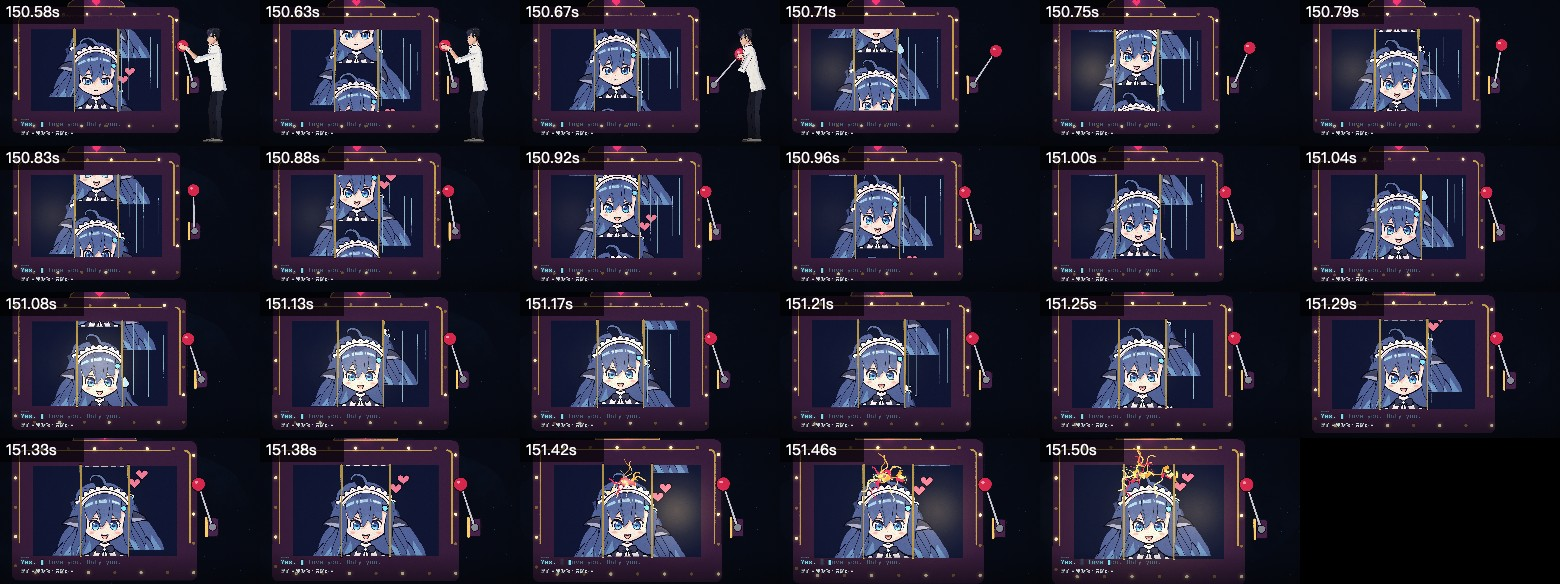
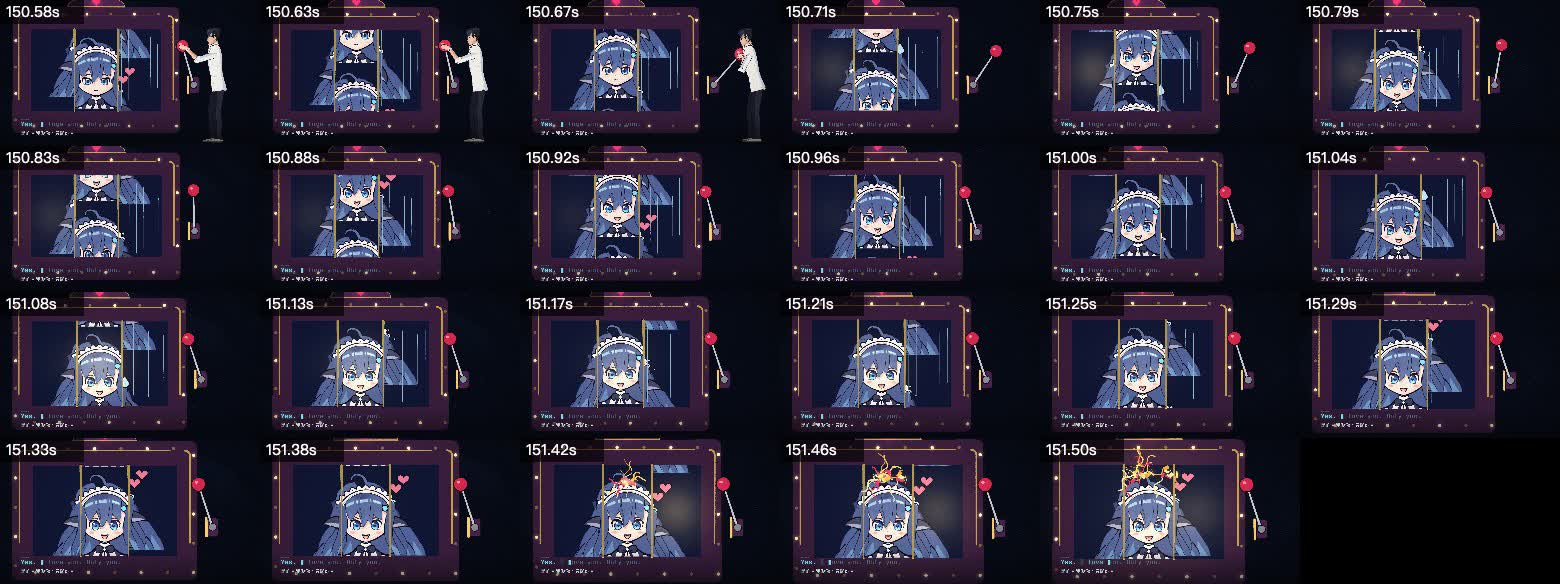
[review] G5 fix #1: 09B/09C expressions, 09H amber rim, palm, 09E lever

diff --git a/film/src/scenes/s09_bridge.js b/film/src/scenes/s09_bridge.js
@@ -85,14 +85,14 @@
   function s09Her(S, t) {
     const { n, tt, rw } = herClock(t);
     const id = n === 1 ? 'B_AI1' : n === 2 ? 'B_AI2' : 'B_AI3', T0 = n === 1 ? T_B : n === 2 ? T_C : T_D;
-    const keys = n === 1 ? [[T_B - 1, 'sad']] : n === 2 ? [[T_C - .5, 'worried']] : [[T_D - .4, 'worried'], [T_D, 'eager']];
+    const keys = n === 1 ? [[T_B - 1, 'sad', { brow: 1.2, lookY: .6 }]] : n === 2 ? [[T_C - .5, 'worried', { eyes: 'sad', brow: 1.4, lid: .1, lookY: .3 }]] : [[T_D - .4, 'worried'], [T_D, 'eager']];
     const f = aiEmotions(tt, keys, { take: .8 });
     const v = s09Vis(tt, id), spk = lyricById(id), talking = spk && tt >= spk.start - .02 && tt <= spk.end + .12;
     let act = {};
     const gl = n === 2 ? ease(seg(tt, T_C + 1.2, T_C + 1.55)) : 0;                         // she glances to the right (the door, the real people)
     if (gl > 0) act = { lookX: 1.1 * gl, yaw: .28 * gl, tilt: .08 * gl };
     const o = { ...f, ...act, form: 'full', pose: 'bust', view: 'front', pal: 'glow', cut: 1.9, t: tt, seed: 3, clip: [GR[0] + 2, GR[1] + 2, GR[2] - 2, GR[3] - 2], blink: undefined, boilKey: 's09 her' + n };
-    if (talking) o.mouth = v ? v.m : (n === 1 ? 'frown' : n === 2 ? 'wobble' : 'open');
+    if (talking) o.mouth = n === 1 ? (v ? (v.s.start * 7 % 2 < 1 ? 'O' : 'U') : 'frown') : n === 2 ? 'wobble' : (v ? v.m : 'open');   // honest and sad: small, pulled-down mouths; worried: trembling
     ai(GX + 10, HER_NY, HER_U, o);
     if (gl > .02) {                                                                    // a painted chevron points the way: right
       const ax = S.X(.8) + 12 * Math.sin(t * 6), ay = S.Y(.42); boilSeed('s09 arrow');
@@ -155,34 +155,32 @@
   // spin (her face cut into three vertical strips); he yanks the lever twelve times, on the lever events, faster and faster.
   // reads: 149.30-149.90 lever and reels, one big move · 149.90-150.70 it gets frantic
   // =============================================================================================================
-  const SL = [GX, GY, GW, GH], LV = [1560, 610, 1.0], HIM_E = { x: 1850, y: 1034, u: 27 };
+  const SL = [GX, GY, GW, GH], LV = [1500, 640, 1.2], HIM_E = { x: 1935, y: 1034, u: 27 };
   const reelWin = { x: GX - GW / 2, y: GY - GH / 2, w: GW, h: GH };
   const yankAt = t => {                                                              // 0 up .. .87 pulled: down at each lever event, back up between
-    const D = .87;
+    const D = .95;
     if (t < LEVER[0] - .08) return .05;
     let i = 0; while (i + 1 < LEVER.length && t >= LEVER[i + 1]) i++;
     if (i === LEVER.length - 1 && t >= LEVER[i]) return lerp(D, .05, kitEase.sine(seg(t, LEVER[i] + .05, LEVER[i] + .45)));
     const e = LEVER[i], nx = LEVER[i + 1] ?? e + .3, g = Math.max(.05, nx - e);
-    if (t < e) return lerp(.1, D, kitEase.in2(seg(t, e - .08, e)));
-    return t < e + g * .5 ? lerp(D, .1, kitEase.sine(seg(t, e, e + g * .5))) : lerp(.1, D, kitEase.in2(seg(t, e + g * .5, nx)));
+    if (t < e) return lerp(.02, D, kitEase.in2(seg(t, e - .08, e)));
+    return t < e + g * .5 ? lerp(D, .02, kitEase.sine(seg(t, e, e + g * .5))) : lerp(.02, D, kitEase.in2(seg(t, e + g * .5, nx)));
   };
   function s09Slot(t, lt, o = {}) {
     const k = clamp(.35 + .65 * kitEase.out2(seg(t, T_E, T_E + .25))), win = ease(seg(t, STOPS[2], STOPS[2] + .3));
     setSlot(SL[0], SL[1], SL[2], SL[3], { k, t, cache: k >= 1, res: 1.5, win, reels: [{}, {}, {}] });
-    const T_SAVE = T; if (t < STOPS[2] + .25) T = 0;                                    // the cached faces must not depend on the frame that first paints them (their heart eyes pulse with the global T)
     aiReels(t, { ...reelWin, u: GH / 2.6, faces: ['sad', 'worried', 'eager', 'heart'], final: 'heart', spin: [T_E - .15, T_E + .6], stops: STOPS, key: 's09', pal: 'glow',
       over: { mouth: (s09Vis(t, 'B_YES') || {}).m || (t < 152.9 ? 'smile' : 'open'), tilt: .04 * Math.sin(t * 3) } });
-    T = T_SAVE;
   }
   function s09e(t, lt, dur) {
     const zk = kitEase.inOut3(seg(lt, 0, .9)), z = lerp(1.04, 1.0, zk);
     if (k0(t)) setConfVoid();
-    kitCam(lt, [[0, lerp(1000, 1090, zk), lerp(GY + 20, 520, zk), z]], { shake: 2.2 * kitEase.out2(seg(t, T_E + .5, T_F)) });
+    kitCam(lt, [[0, lerp(1050, 1150, zk), lerp(GY + 20, 520, zk), z]], { shake: 2.2 * kitEase.out2(seg(t, T_E + .5, T_F)) });
     s09Slot(t, lt);
-    const pull = yankAt(t), a = lerp(-.32, 1.25, easeIn(pull)), L = 300 * LV[2];
+    const pull = yankAt(t), a = lerp(-.32, 1.25, easeIn(pull)), L = 300 * LV[2];   // (setLever's own arc)
     const kx = LV[0] + Math.sin(a) * L, ky = LV[1] - Math.cos(a) * L;
     setLever(LV[0], LV[1], LV[2], { pull, grow: kitEase.out2(seg(t, T_E - .05, T_E + .22)) });
-    const f = himEmotions(t, [[T_E - .3, 'panic']], { take: .3 }), hx = HIM_E.x + (kx - 1700) * .5, fev = seg(t, 149.9, 150.7);
+    const f = himEmotions(t, [[T_E - .3, 'panic']], { take: .3 }), hx = HIM_E.x + (kx - 1800) * .5, fev = seg(t, 149.9, 150.7);
     him(hx, HIM_E.y, HIM_E.u, { ...f, mouth: 'gasp', pose: 'stand', view: 'side', flip: true, outfit: 'home', toR: [kx + 8, ky + 14], handR: 'fist', lean: .1 + .12 * pull + .04 * fev * Math.sin(t * 40), boilKey: 's09e him', seed: .5 });
     glow(kx, ky, 120, '#FF9AB0', .25 * pull);
     camEnd();
@@ -195,9 +193,9 @@
   // =============================================================================================================
   function s09f(t, lt, dur) {
     const zk = kitEase.sine(seg(t, T_F, T_G)), z = lerp(1.0, 1.25, zk), hit = STOPS.reduce((m, e) => m + kitEnv(t, e, .02, .12), 0);
-    kitCam(lt, [[0, lerp(1090, 900, zk), lerp(520, 480, zk), z]], { shake: 6 * Math.min(1, hit) });
+    kitCam(lt, [[0, lerp(1150, 900, zk), lerp(520, 480, zk), z]], { shake: 6 * Math.min(1, hit) });
     s09Slot(t, lt);
-    const pull = lerp(.87, .05, kitEase.sine(seg(t, T_F - .05, T_F + .4)));
+    const pull = lerp(.95, .05, kitEase.sine(seg(t, T_F - .05, T_F + .4)));
     setLever(LV[0], LV[1], LV[2], { pull, grow: 1 });
     STOPS.forEach((e, i) => { const k = kitEnv(t, e, .02, .14); if (k > .02) glow(GX + (i - 1) * GW / 3, GY, 380, GOLD, .55 * k); });         // a flash on each reel as it stops
     const age = t - STOPS[2]; if (age > 0) setConfetti(GX, 330, age, { n: 38, spread: 1000, up: 600, s: 1.7 });
@@ -261,10 +259,20 @@
           const rip = t >= T_RIPS ? { c: [0, -9.1], age: ((t - T_RIPS) % .698), amp: .05, wl: .9, speed: 2.6 } : undefined;
           if (amb > 0) glow(M[0], 440, 560, SET_C.amber, .5 * amb);
           const af = aiEmotions(t, [[157.9, 'perfect'], [161.2, 'gentle']], { take: 0 });
-          const palm = t >= T_PALM ? aiAct('glass', t, T_PALM, { at: [1.5, -7.2] }) : {};
+          const palm = t >= T_PALM ? aiAct('glass', t, T_PALM, { at: [1.7, -8.3] }) : {};
           glow(M[0], 450, 560, '#BFD8EE', .3 * (1 - dis * .8));
-          ai(M[0], 610, 168, { ...af, ...palm, form: 'full', pose: 'bust', view: 'front', pal: 'mirror', pal2: 'amber', palK: .5 * amb, cut: 1.6, t, tilt: TILT, blink: 0, dissolve: clamp(dis), dissolveTo: [M[0], 900],
-            mouth: sv, ripple: rip, clip: [S.x, S.y, S.x + S.w, S.y + S.h], boilKey: 's09h her', seed: 3 });
+          const base = { ...af, ...palm, handK: t >= T_PALM ? 1.7 : 1, form: 'full', pose: 'bust', view: 'front', pal: 'mirror', cut: 1.6, t, tilt: TILT, blink: 0, dissolve: clamp(dis), dissolveTo: [M[0], 900],
+            mouth: sv, ripple: rip, clip: [S.x, S.y, S.x + S.w, S.y + S.h], boilKey: 's09h her', seed: 3 };
+          const HY = 610, HU = 168;
+          // amber seeps in from her outline: an amber copy a little larger behind her, her mirror-silver self, an amber wash over all of her, then a slightly smaller
+          // silver self on top: only a rim 20-40 px deep stays amber
+          if (amb > .01) ai(M[0], HY - .98 * HU * .045, HU * 1.045, { ...base, silhouette: '#FFB070', silOp: 255 * amb, handK: 1, boilKey: 's09h herA' });
+          ai(M[0], HY, HU, base);
+          if (amb > .01) { ai(M[0], HY, HU, { ...base, silhouette: '#FFB070', silOp: 120 * amb, boilKey: 's09h herB' }); ai(M[0], HY - .98 * HU * .035, HU * .965, { ...base, boilKey: 's09h her' }); }
+          if (t >= T_PALM && AI_LAST.handR) {                                              // the palm presses flat on the glass: a flare and a ring where it lands, a streak of reflected light
+            const pk = ease(seg(t, T_PALM + .45, T_PALM + .95)), [hx, hy] = AI_LAST.handR;
+            if (pk > 0) { glow(hx, hy, 150 * pk, '#E8F4FF', .45 * pk); setRipple(hx, hy, 40 + 90 * pk, .8 * pk, { ry: .9, key: 'palm' }); boilSeed('s09h glint'); inkLine([[hx - 40, hy - 70], [hx + 30, hy + 20]], 3 * pk, '#FFFFFF', 'inkfine', 0); }
+          }
           mouthP = AI_LAST.mouth ? [...AI_LAST.mouth] : null;
         }
       } });

diff --git a/docs/tasks/mac_02_status.md b/docs/tasks/mac_02_status.md
@@ -6,7 +6,7 @@
 | G2 | S04+S05 | 待審（fix #2 已 push） | 穩定幀約 0.1 | – | `film/out/preview_G2.mp4` |
 | G3 | S06+S07 | 待審（fix #1 已 push） | 0.1–0.5（重畫 tile 幀到 1+） | – | `film/out/preview_G3.mp4`（已重出，0.13 s/幀牆鐘） |
 | G4 | S08 | 待審（fix #1 已 push） | 0.04–0.6 | – | `film/out/preview_G4.mp4`（已重出，0.09 s/幀牆鐘） |
-| G5 | S09 | 修改中（回饋 #1） | 0.07–0.2（拉霸 0.25–0.6） | – | `film/out/preview_G5.mp4` |
+| G5 | S09 | 待審（fix #1 已 push） | 0.07–0.2（09H +0.13；拉霸 0.25–0.6） | – | `film/out/preview_G5.mp4`（已重出） |
 | G6 | S10–S13 | 進行中 | – | – | `film/out/preview_G6.mp4` |
 
 ## 共用檔案請求（候選，等主 session 決定）
@@ -30,3 +30,4 @@
 - G5 弱點：她說「I can't love you」時嘴型偏開心；09A 屏息只有約 0.3 s；09E 他半個身體在畫面外、拉桿擺動小；09H 的琥珀是調色＋glow、不是真的邊緣滲入；09C 她沒有指向的手臂（bust 沒有手），改為視線＋箭頭。
 - 09 的 him bust 已把 `cut` 改成 9（lead），切口移出畫面。
 - G4 fix 備註：他的 bust 全改 `cut: 9`；巨大的她在 08A/08D/08E 以柔和漸層融進暗處；08F 的「撥開頭髮」是畫上去的補丁、不是真的頭髮變形；08G 同時只看得到 1–2 道呼氣筆觸且會跨過臉頰；08C 的 key／strip 沒重出（strip_08C 已刪）。
+- G5 fix 備註：09B key 幀她說話時嘴形仍偏開朗（眼睛是 sad、眉上揚、嘴 O/U 回 frown，但 key 幀看起來不夠難過）；09C 145.36 仍略開口；09H 琥珀為輪廓外擴 15–30 px 的邊緣光，髮色保持銀灰；掌心光暈是 flare+ring+glint、不是真玻璃反射；決定性 150.53 hash 仍會差、冷暖單獨重現位元一致。

diff --git a/docs/review/G5/notes.md b/docs/review/G5/notes.md
@@ -9,3 +9,5 @@
 - 09H 153.49-164.65 (0.07-0.15): gold drains, mirror goes black, glint, his silver reflection, ripple at 156.28, ripple + veil swap to her in his pose/tilt (dissolve), sings, ripples every half bar from her mouth, amber seeps (glow + palette), palm rises. Weak: the amber is a palette tint; palm is small.
 - 09I 164.65-167.44 (0.1-0.2): glass edge-on, both full figures, his flat palm meets hers at 165.25, ripples + swirl, "Then speak for me" mouth, her eyes close, whirl, white (#F4F9FF) from 166.65, solid by 167.09. Weak: her mirror palette is dim next to him.
 Requests: ai_fx aiReels cached faces use global T (heart-eye pulse): worked around by setting T=0 during the call (s09 only); fix in ai_fx.js if wanted.
+
+Fix #1: 09B sad eyes + small pulled-down mouths; 09C sad eyes, raised brows, trembling 'wobble'; 09D eager kept. 09H amber is now an outer amber copy + amber wash + smaller silver self on top (rim only, hair stays mirror silver); palm handK 1.7, flare/ring/glint on contact from 163.75. 09E lever 1.2x, full swing (pull .95). aiReels T workaround removed. Weak: 09C mouth still a bit open; palm glint is a simple flare.
